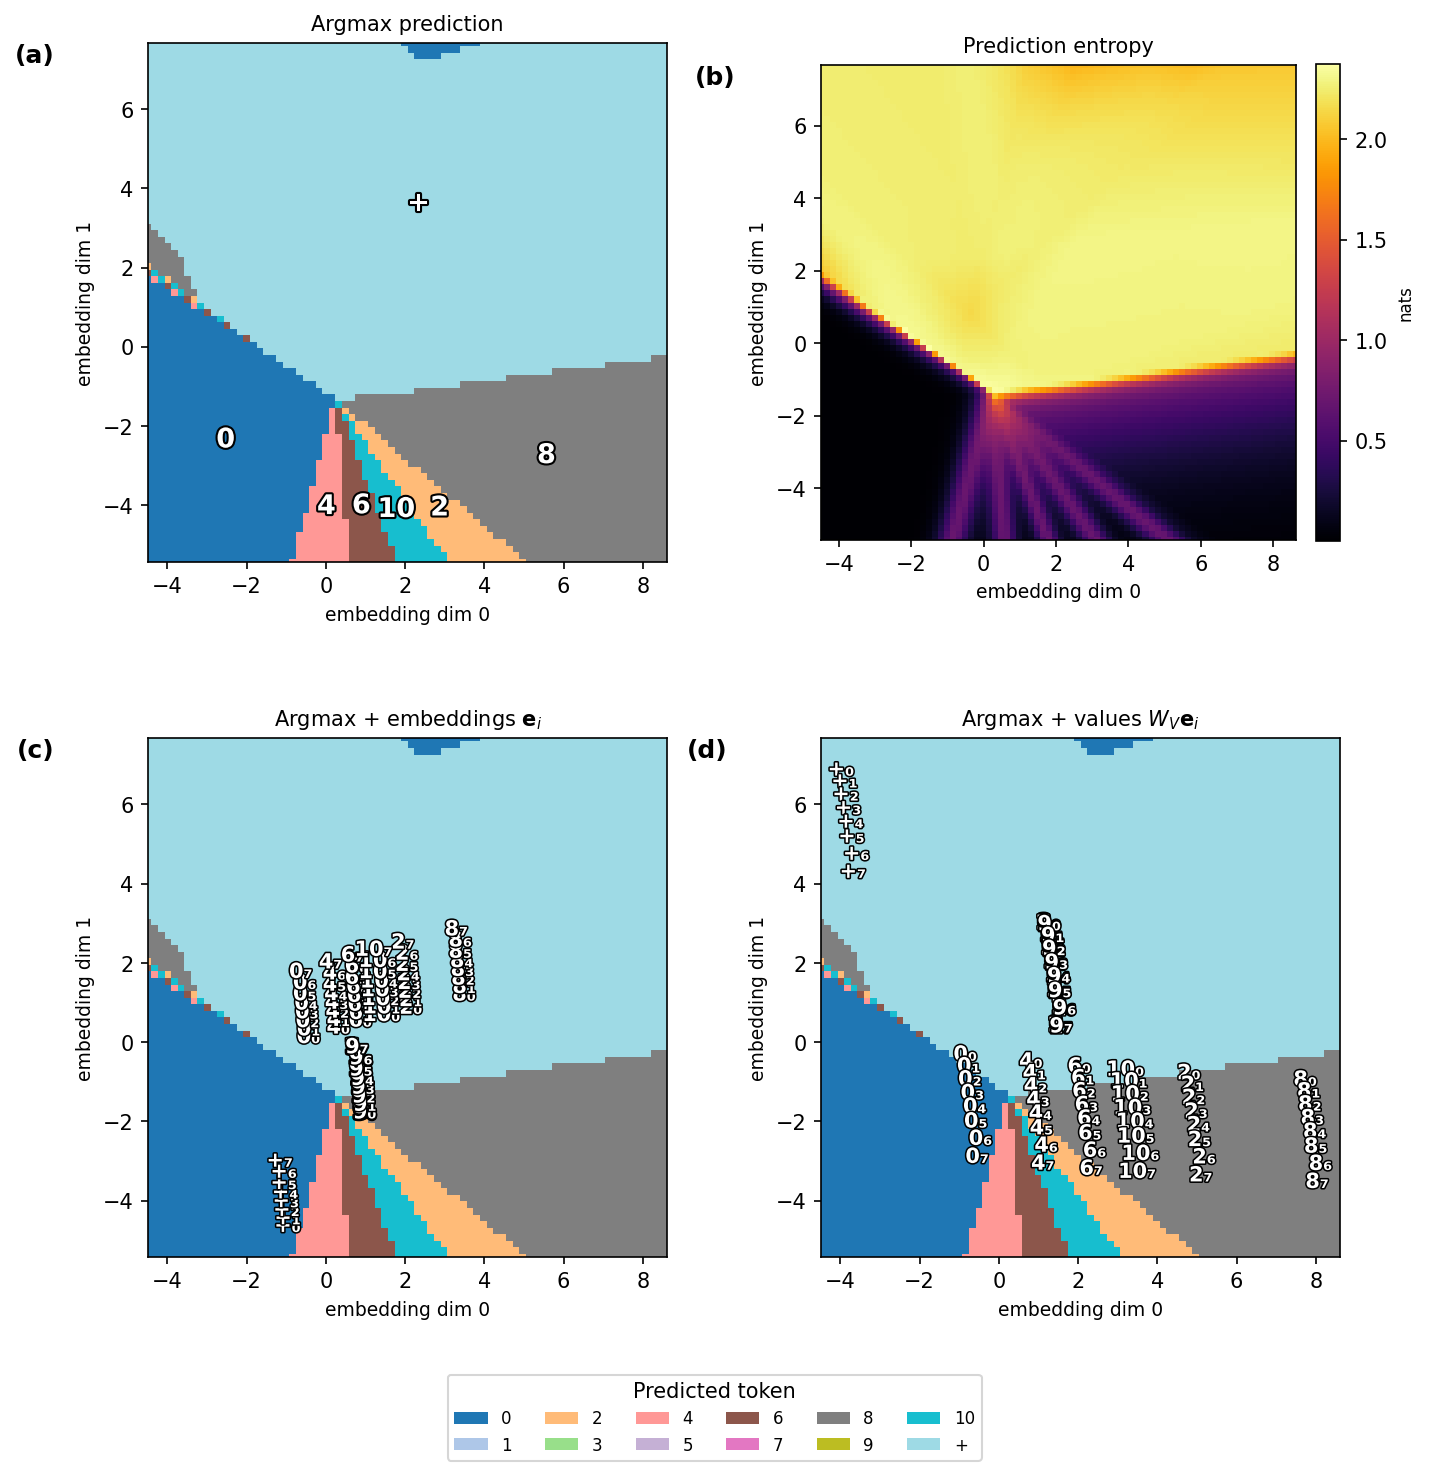
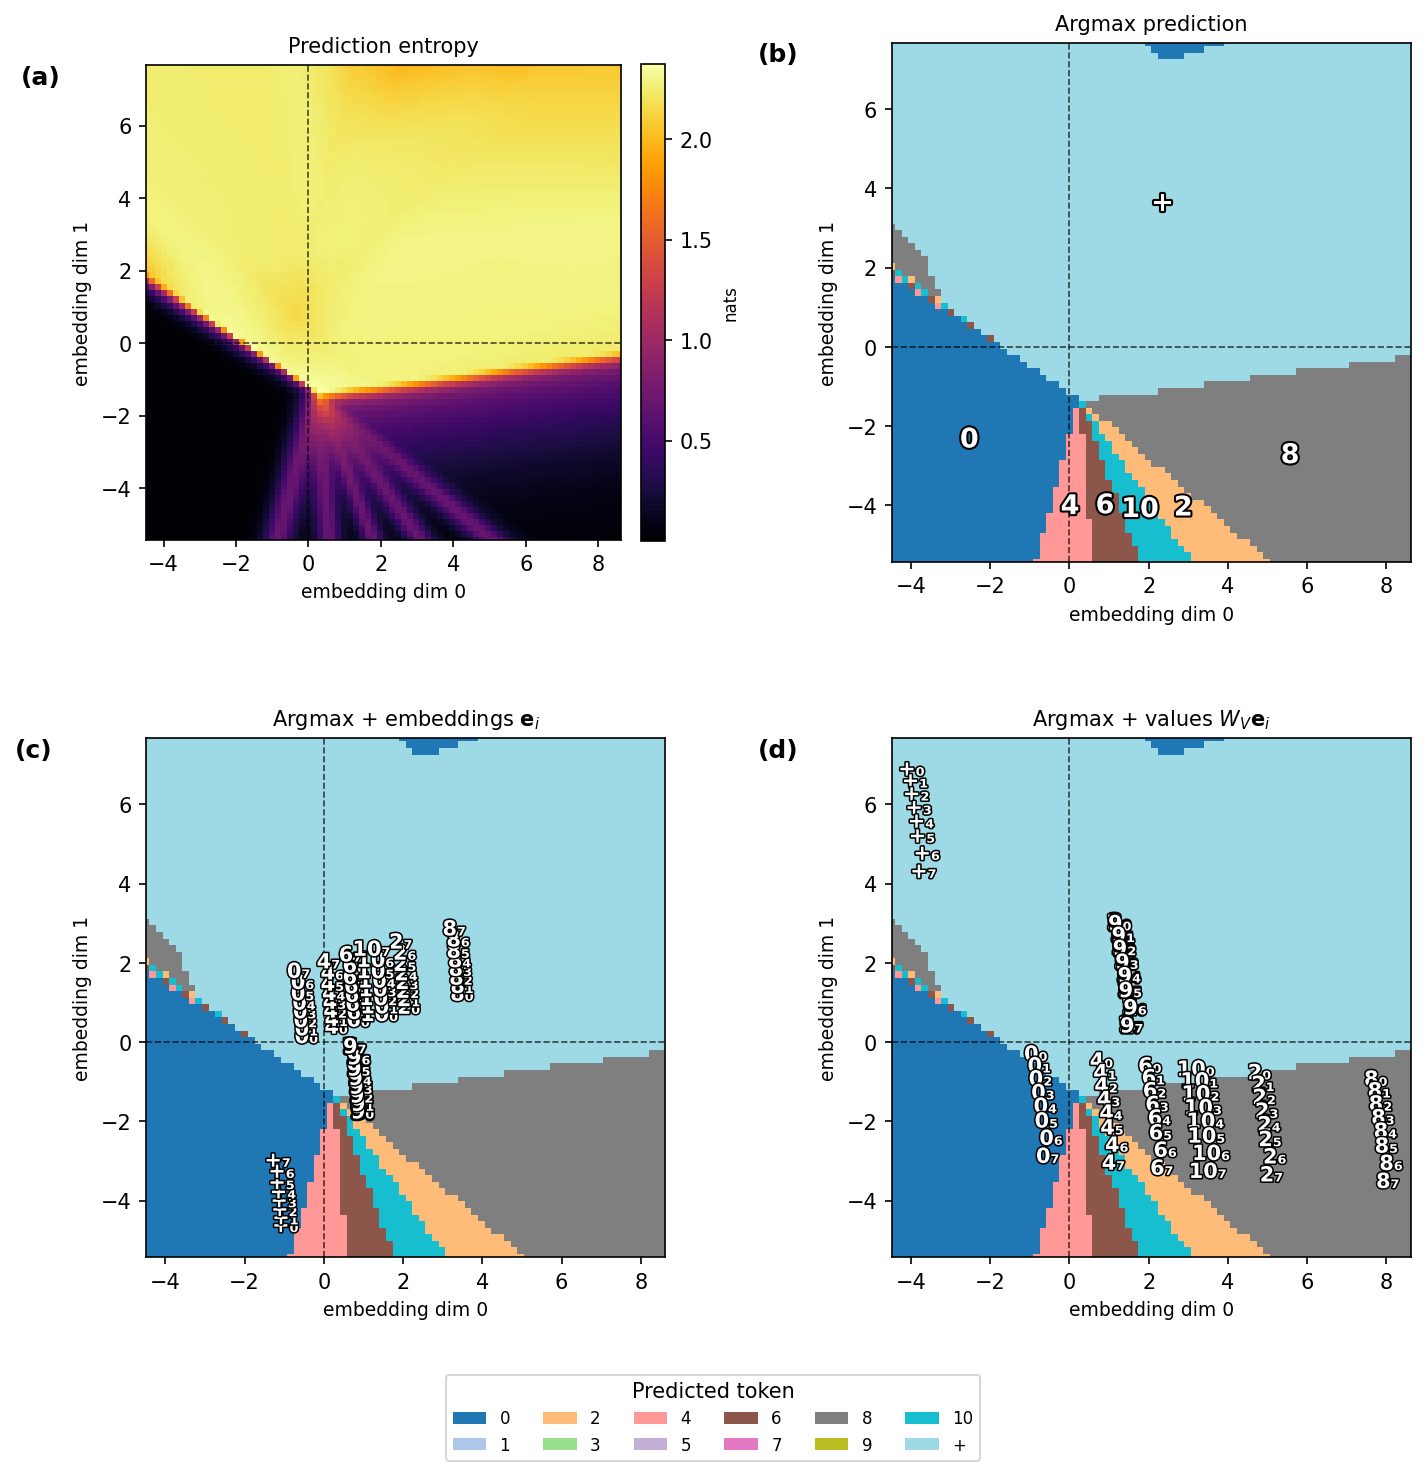
3.5

diff --git a/plotting/06b_output_landscape_summary.py b/plotting/06b_output_landscape_summary.py
@@ -149,14 +149,14 @@ def plot_output_landscape_summary(
     else:
         fig, axes = plt.subplots(2, 2, figsize=(10, 10))
 
-    # (a) argmax with region annotations for large regions
-    _plot_argmax(axes[0, 0], xx, yy, probs, itos, cmap, norm, grid_resolution, extent,
-                 annotate_regions=True, min_region_pixels=60)
-
-    # (b) entropy
-    ent_im = _plot_entropy(axes[0, 1], xx, yy, probs, grid_resolution, extent)
-    cbar = fig.colorbar(ent_im, ax=axes[0, 1], fraction=0.046, pad=0.04)
+    # (a) entropy (top-left)
+    ent_im = _plot_entropy(axes[0, 0], xx, yy, probs, grid_resolution, extent)
+    cbar = fig.colorbar(ent_im, ax=axes[0, 0], fraction=0.046, pad=0.04)
     cbar.set_label("nats", fontsize=8)
+
+    # (b) argmax with region annotations for large regions (top-right)
+    _plot_argmax(axes[0, 1], xx, yy, probs, itos, cmap, norm, grid_resolution, extent,
+                 annotate_regions=True, min_region_pixels=60)
 
     # (c) argmax + embeddings
     _plot_argmax(axes[1, 0], xx, yy, probs, itos, cmap, norm, grid_resolution, extent)
@@ -182,8 +182,12 @@ def plot_output_landscape_summary(
         for c in range(2):
             axes[r, c].set_xlabel("embedding dim 0", fontsize=9)
             axes[r, c].set_ylabel("embedding dim 1", fontsize=9)
+            # Mark origin (0, 0)
+            axes[r, c].axhline(0, color="black", linestyle="--", linewidth=0.8, alpha=0.7, zorder=5)
+            axes[r, c].axvline(0, color="black", linestyle="--", linewidth=0.8, alpha=0.7, zorder=5)
 
     # Panel labels outside the panels (to the left of each panel)
+    # (a)=entropy, (b)=argmax, (c)=argmax+embeddings, (d)=argmax+values
     panel_labels = ["(a)", "(b)", "(c)", "(d)"]
     for idx, (r, c) in enumerate([(0, 0), (0, 1), (1, 0), (1, 1)]):
         axes[r, c].text(

diff --git a/Paper.md b/Paper.md
@@ -220,19 +220,21 @@ The output network (FFN, second residual, and LM head, as defined in §2.2) maps
 ![Output Probability Heatmaps](plus_last_even/plots/a4/06_output_probs.png)
 ***Figure 6.** Output probability landscape (per-unit view). Each subplot shows the softmax probability $P(\text{next} = \text{token})$ over the 2D plane for one output token (digits 0–10 and the `+` operator). Yellow $\approx 1$, purple $\approx 0$.*
 
-We observe a clear functional decomposition of the plane:
+
+Figure 7 provides a compact summary of the landscape shown in Figure 6. Panel (a) shows the *entropy* of the output distribution: the upper half-plane has high entropy (many tokens are plausible), while the lower zones have near-zero entropy (a single even number dominates). Panel (b) shows the *argmax prediction map*: at every point in the plane, the color indicates which token the output network would predict most strongly.
+
+Panels (a) and (b) together reveal a clear functional decomposition of the plane:
 
 1. **Indifference region** (upper half-plane). No single digit is strongly favored. The `+` operator unit shows the highest probability here, reflecting the training distribution: `+` appears with probability 0.3 and can follow almost any digit, so the model assigns it a high baseline in this unspecialized zone.
 2. **Strong specific-prediction region** (lower half-plane). This area is subdivided into distinct target zones, one for each even integer. In each zone, one even-number unit fires strongly while all others are nearly zero. This region is effectively reserved for the final retrieval of the correct even digit after a `+` sign.
 
-Figure 7 provides a compact summary of the landscape shown in Figure 6. Panel (a) shows the *argmax prediction map*: at every point in the plane, the color indicates which token the output network would predict most strongly. Panel (b) shows the *entropy* of the output distribution: the upper half-plane has high entropy (many tokens are plausible), while the lower zones have near-zero entropy (a single even number dominates).
 
-Panels (c) and (d) of Figure 7 overlay the model's internal representations on the argmax map to reveal where they sit relative to the output network's decision regions. In panel (c), the 96 combined embeddings $\mathbf{e}_i$ (12 tokens $\times$ 8 positions) are plotted. All digit embeddings fall in the high-entropy indifference region in the upper half-plane, where no specific retrieval is triggered. In contrast, all `+` embeddings land in the lower half-plane — inside the strong prediction region — which provides a geometric headstart for the algorithm: the model has already categorized `+` as requiring an even-number output based on token identity and position alone. However, because the residual stream at this stage lacks historical context, it can identify the *type* of output needed but cannot resolve the specific value. This defines the attention layer's objective: it must look back to find the most recent even number and produce a value vector that, when added to the residual stream, nudges the representation into the correct even-number target zone.
+Panels (c) and (d) of Figure 7 overlay the model's internal representations on the argmax map (panel b) to reveal where they sit relative to the output network's decision regions. In panel (c), the 96 combined embeddings $\mathbf{e}_i$ (12 tokens $\times$ 8 positions) are plotted. The digits embeddings generaly fall in the high-entropy indifference region in the upper half-plane (visible in panel a), where no specific retrieval is triggered. In contrast, all `+` embeddings land in the lower half-plane — inside the strong prediction region — which provides a geometric headstart for the algorithm: the model has already categorized `+` as requiring an even-number output based on token identity and position alone. However, because the residual stream at this stage lacks historical context, it can identify the *type* of output needed but cannot resolve the specific value. This defines the attention layer's objective: it must look back to find the most recent even number and produce a value vector that, when added to the residual stream, nudges the representation into the correct even-number target zone.
 
-Panel (d) shows the value-transformed vectors $W_V \mathbf{e}_j$ for all 96 combined embeddings, overlaid on the same argmax map. The positioning of these value vectors relative to the decision boundaries anticipates the analysis of the next section (§3.6).
+Panel (d) shows the value-transformed vectors $W_V \mathbf{e}_j$ for all 96 combined token+positions, overlaid on the same argmax map. The positioning of these value vectors relative to the decision boundaries. Note that the ordering of the value vectors on the plane in figure 7d is the same order as the even-digit prediction zones in figure 7b. This illustrates that the purpose of the value vectors is to nudge the embeddings towards a particular zone in order to produce the correct output. However, *which* value specifically will be chosen depends on the attention matrix which requires a specific sequence.
 
 ![Output Landscape Summary](plus_last_even/plots/a4/07_output_landscape_summary.png)
-***Figure 7.** Output landscape summary (summary of Figure 6). (a) Argmax prediction map: color indicates which token has the highest predicted probability at each point. (b) Entropy of the output distribution (nats); high in the indifference region, near zero in even-number target zones. (c) Argmax map with combined embeddings $\mathbf{e}_i$ overlaid. (d) Argmax map with value-transformed vectors $W_V \mathbf{e}_i$ overlaid.*
+***Figure 7.** Output landscape summary (summary of Figure 6). (a) Entropy of the output distribution (nats); high in the indifference region (top half), near zero in even-number target zones (bottom half). (b) Argmax prediction map: color and annotation indicate which token has the highest predicted probability at each point. (c) Argmax map with combined embeddings $\mathbf{e}_i$ overlaid. (d) Argmax map with value-transformed vectors $W_V \mathbf{e}_i$ overlaid.*
 
 The output landscape and the embedding positions co-evolve during training (Movie 2). At initialization, the probability landscape is nearly uniform — no decision boundaries exist. As the model first learns token frequencies, broad regions form. These sharpen progressively into the final configuration where each even number has a well-defined, non-overlapping high-probability region. (Per-unit heatmaps with embedding and value overlays are included in the Supplementary Figures.)
 
